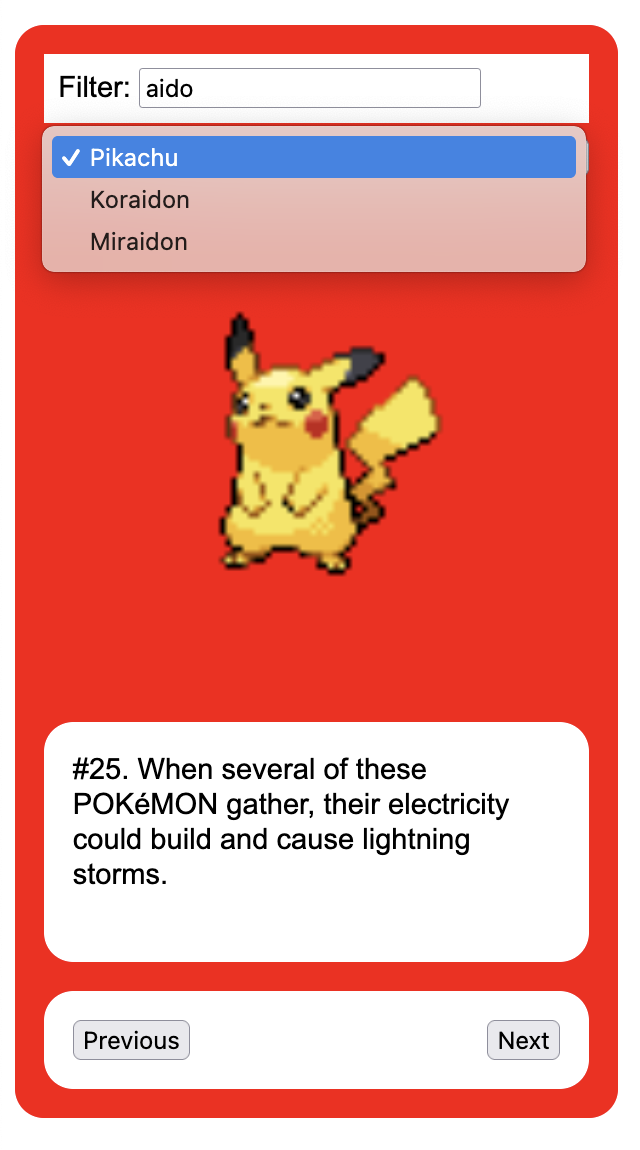
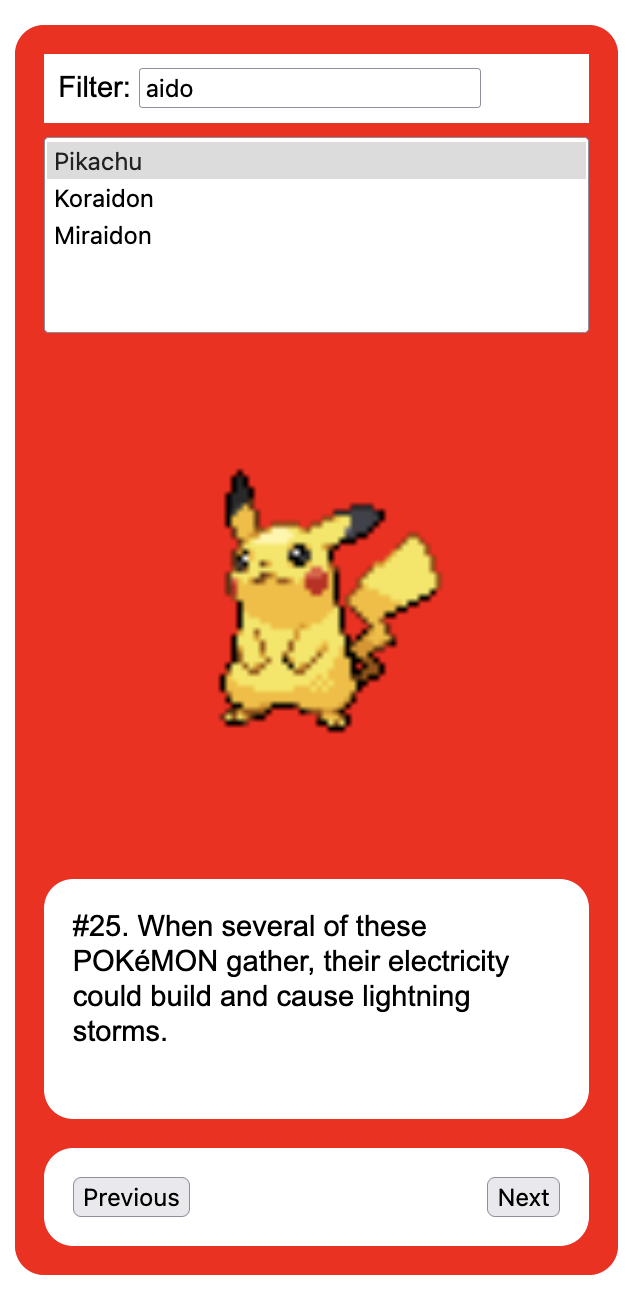
change select size

diff --git a/src/App.tsx b/src/App.tsx
@@ -90,7 +90,7 @@ const App = () => {
             <input type='text' name={'filter'} value={filter} onChange={onChangeFilter} placeholder={`min ${MIN_FILTER_LENGTH} characters`} />
           </label>
         </div>
-        <select className='select' value={currentId}>
+        <select className='select' value={currentId} size={5}>
           {options}
         </select>
         <div id='spriteContainer' className='spriteContainer'>
